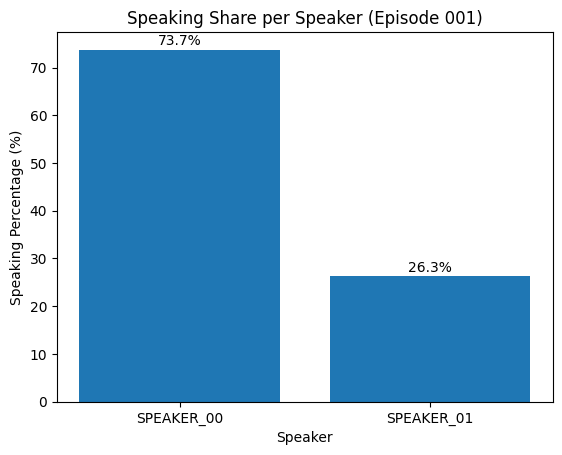
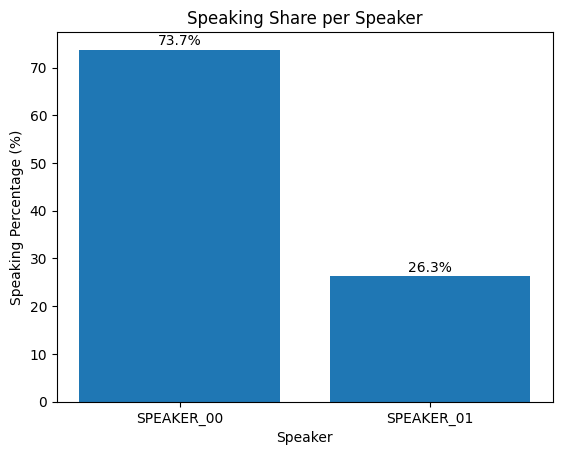
add script and images for plots

Changed region(s): [[0.2117, 0.0, 0.8772, 0.0615]]

diff --git a/src/others/test_single_episode.py b/src/others/test_single_episode.py
@@ -81,7 +81,7 @@ def main():
 
     plt.figure()
     plt.bar(summary["speaker_id"], summary["speaking_percentage"])
-    plt.title("Speaking Share per Speaker (Episode 001)")
+    plt.title("Speaking Share per Speaker")
     plt.xlabel("Speaker")
     plt.ylabel("Speaking Percentage (%)")
 
